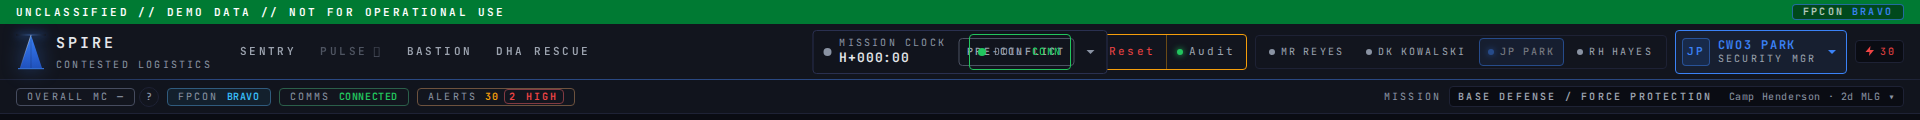
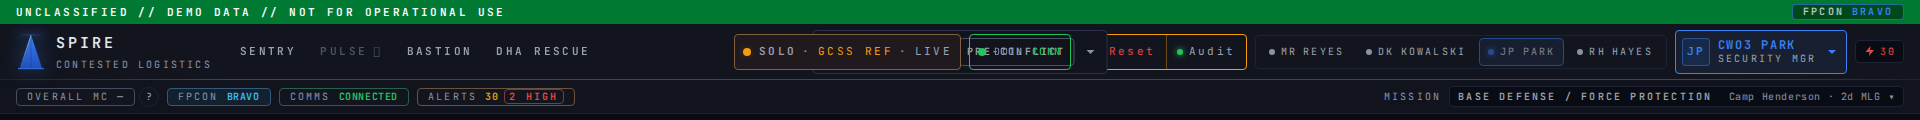
topbar: align spine + clock breakpoints with done-criteria
Code-review pass 3.

  - TopBar: SystemStatusChip is now part of the stable spine, present in
    both operator and stage modes. The chip is the only access path to
    Mission timeline at sm so it must always render.
  - TopBar: revert MissionClock visibility to the spec — `hidden md:inline-flex
    xl:hidden` (compact at md/lg only). At sm the chip is hidden because
    the chrome is too cramped; the System chip's "Mission timeline"
    dropdown row owns the access path and fires the
    `spire:open-mission-clock` event.
  - topbar_layout.spec.ts: now 13 scenarios.
    * NEW: stage mode at lg with a pre-loaded scenario asserts the cluster
      renders all 3 controls (Failsafe + Reset + Audit) — the exact
      done-criteria scenario.
    * REWROTE: sm test asserts the compact clock is hidden AND the System
      chip dropdown surfaces the Mission timeline row (the documented
      fallback access path).
    * UPDATED: operator non-g4 test still asserts cluster absent and now
      also checks SystemStatusChip remains visible.
  - docs/topbar-anatomy.md: corrected sm diagram (no clock chip), corrected
    MissionClock row in the migration table to "compact at md/lg, hidden
    at sm with System chip Mission timeline as the fallback".
  - Re-captured docs/screenshots/topbar/*.png to reflect the SystemStatusChip
    in the stage-mode screenshot.

  Validation: 27/27 Playwright tests green; tsc clean.

Changed region(s): [[0.375, 0.325, 0.5, 0.525], [0.375, 0.575, 0.5, 0.6], [0.375, 0.275, 0.5, 0.3]]

diff --git a/tests/playwright/topbar_layout.spec.ts b/tests/playwright/topbar_layout.spec.ts
@@ -24,6 +24,31 @@ async function enableStageMode(page: Page): Promise<void> {
   });
 }
 
+// Seed a scenario in sessionStorage so `useScenarioPlayer.scenarioId` is
+// non-null at boot. Failsafe in StageCluster is gated on a loaded
+// scenario; pre-seeding the persisted demoPlayer state is the cleanest
+// way to get the third stage-cluster button visible without driving the
+// scenario picker through the UI.
+async function preloadScenario(page: Page): Promise<void> {
+  await page.addInitScript(() => {
+    try {
+      window.sessionStorage.setItem(
+        "spire.demoPlayer.v1",
+        JSON.stringify({
+          scenarioId: "TXN-PROBE-01",
+          currentBeatIndex: 0,
+          status: "loaded",
+          speed: 1,
+          autoAdvance: false,
+          narrationVisible: true,
+        }),
+      );
+    } catch {
+      /* private mode tolerant */
+    }
+  });
+}
+
 test.describe("TopBar declutter (Task #184)", () => {
   test("xl+ shows the full spine: System + Notif + Comms + IdPill", async ({ page }) => {
     await page.setViewportSize(BREAKPOINTS.xl);
@@ -45,6 +70,22 @@ test.describe("TopBar declutter (Task #184)", () => {
     }
   });
 
+  test("stage mode at lg with a loaded scenario renders all 3 stage-cluster controls", async ({ page }) => {
+    // Required scenario from done-criteria: stage mode + 1440 + Failsafe
+    // visible = the cluster groups Failsafe + Reset + Audit. Pre-seed the
+    // scenarioPlayer sessionStorage so the Failsafe gate is open.
+    await page.setViewportSize(BREAKPOINTS.lg);
+    await enableStageMode(page);
+    await preloadScenario(page);
+    await signIn(page, SECURITY_MANAGER_DODID);
+    const cluster = page.getByTestId("stage-cluster");
+    await expect(cluster).toBeVisible();
+    await expect(cluster).toHaveAttribute("data-stage-mode", "1");
+    await expect(cluster.getByTestId("stage-cluster-failsafe")).toBeVisible();
+    await expect(cluster.getByTestId("stage-cluster-reset")).toBeVisible();
+    await expect(cluster.getByTestId("stage-cluster-audit")).toBeVisible();
+  });
+
   test("xl+ shows full MissionClock and hides CompactMissionClock", async ({ page }) => {
     await page.setViewportSize(BREAKPOINTS.xl);
     await signIn(page);
@@ -55,13 +96,23 @@ test.describe("TopBar declutter (Task #184)", () => {
     }
   });
 
-  test("sm shows CompactMissionClock so the clock is always one click away", async ({ page }) => {
-    // The original declutter hid the clock entirely below md; the sm
-    // fallback now keeps the compact chip visible at every width below
-    // xl so an operator on a narrow surface still has a reachable clock.
+  test("sm hides the MissionClock — System chip mission-timeline row is the fallback", async ({ page }) => {
+    // Per the spec the compact clock renders only at md+. At sm the
+    // chrome is too cramped for the chip; the System chip dropdown's
+    // Mission timeline row owns the access path (clicking it fires the
+    // `spire:open-mission-clock` event which expands the clock from the
+    // System chip's stacking context).
     await page.setViewportSize(BREAKPOINTS.sm);
     await signIn(page);
-    await expect(page.getByTestId("mission-clock-compact")).toBeVisible();
+    const compact = page.getByTestId("mission-clock-compact");
+    if (await compact.count()) {
+      await expect(compact).toBeHidden();
+    }
+    // System chip is part of the spine — present at every breakpoint.
+    await expect(page.getByTestId("system-status-chip")).toBeVisible();
+    await page.keyboard.press("Escape");
+    await page.getByTestId("system-status-chip").click();
+    await expect(page.getByTestId("system-status-panel")).toContainText(/Mission timeline/i);
   });
 
   test("MissionClock dropdown opens and is not clipped by neighbouring chrome", async ({ page }) => {
@@ -167,6 +218,9 @@ test.describe("TopBar declutter (Task #184)", () => {
     await page.setViewportSize(BREAKPOINTS.lg);
     await signIn(page, SECURITY_MANAGER_DODID);
     await expect(page.getByTestId("stage-cluster")).toHaveCount(0);
+    // SystemStatusChip is part of the spine and stays visible — only
+    // the stage-only cluster is gone.
+    await expect(page.getByTestId("system-status-chip")).toBeVisible();
   });
 
   test("IdentityPill menu hosts Operator settings (Air-gap, Density, Comms)", async ({ page }) => {

diff --git a/frontend/src/components/TopBar.tsx b/frontend/src/components/TopBar.tsx
@@ -192,14 +192,18 @@ export function TopBar() {
          * + Reset + Audit) and keeps the AlertBadge backstop so a stage
          * presenter sees the alert count even with the dropdown closed. */}
         <div className="flex min-w-0 shrink items-center gap-2 overflow-hidden">
-          {/* CompactMissionClock for everything below xl. The full centred
-           * MissionClock only renders at xl+; below xl the chip rides the
-           * right group at every breakpoint (sm and md/lg) so operators
-           * always have a visible, click-to-open clock. */}
-          <span className="inline-flex xl:hidden">
+          {/* CompactMissionClock for the cramped 1024–1279 (md/lg) range.
+           * The full centred MissionClock renders at xl+. At sm the
+           * compact chip is hidden — the System chip dropdown's
+           * "Mission timeline" row is the fallback access path. */}
+          <span className="hidden md:inline-flex xl:hidden">
             <MissionClock compact />
           </span>
-          {!stageMode && <SystemStatusChip />}
+          {/* SystemStatusChip is part of the stable spine — present in
+           * both operator and stage modes so the sync/gcss/mode/timeline
+           * dropdown is always one click away (and at sm it's the only
+           * way to reach the mission timeline). */}
+          <SystemStatusChip />
           <CommsControl />
           {!stageMode && <PushToJointButton role={role} />}
           {!stageMode && <NotificationsChip />}

diff --git a/docs/topbar-anatomy.md b/docs/topbar-anatomy.md
@@ -77,16 +77,15 @@ right group. JointCOP button is `hidden xl:inline-flex` — the menu's
 ┌──────────────────────────────────┐
 │ SPIRE · UNCLASS                       │
 │ SENTRY PULSE BASTION ADMIN            │
-│ [Clock chip][System][Notif][Comms]    │
-│ [Stage cluster?][IdPill ▾]            │
+│ [System][Notif][Comms][IdPill ▾]      │
 └──────────────────────────────────┘
 ```
 
-CompactMissionClock rides the right group at every breakpoint below
-xl, so the operator always has a visible click-to-open clock — the
-`spire:open-mission-clock` event and the System chip menu's mission
-timeline row are belt-and-suspenders fallbacks. Tabs wrap. Tagline
-truncates.
+CompactMissionClock disappears at sm — the chrome is too cramped for
+the chip. The System chip's "Mission timeline" dropdown row is the
+only access path at this width and fires the
+`spire:open-mission-clock` event to expand the clock from the System
+chip's stacking context. Tabs wrap. Tagline truncates.
 
 ## Rationale
 
@@ -104,7 +103,7 @@ truncates.
 | AirGapToggle              | IdentityPill → Operator settings → Air-gap row    |
 | DensityToggle             | IdentityPill → Operator settings → Density radio  |
 | CommsControl              | Stays in right group (single posture chip)        |
-| MissionClock              | `compact` chip below xl (sm/md/lg), full clock at xl+ |
+| MissionClock              | `compact` chip at md/lg, full clock at xl+, hidden at sm (System chip's Mission timeline row is the access path) |
 | PushToJointButton         | Right group, `xl+` only                           |
 | Tab numerals (`01/02/...`)| Removed — labels carry the meaning                |
 
